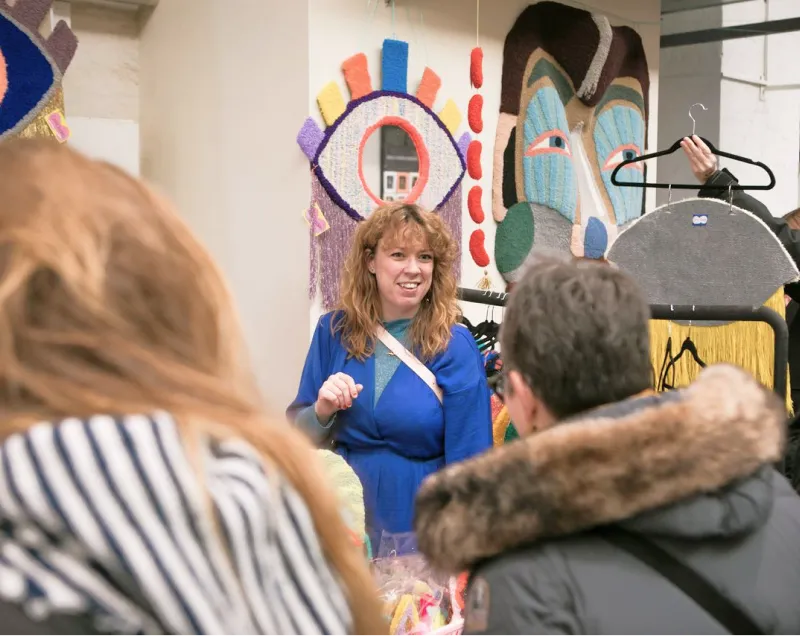
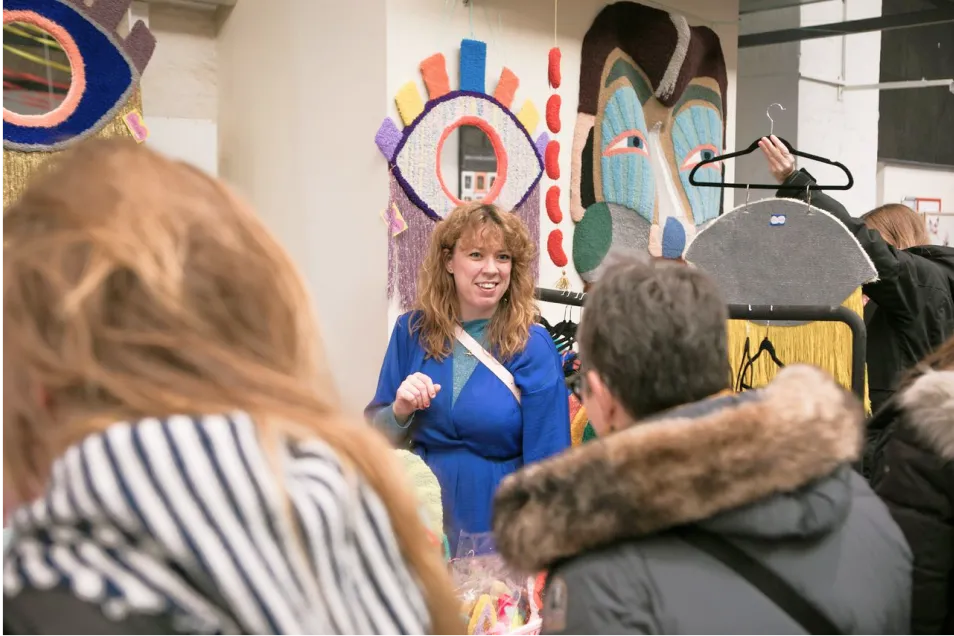
Accordion section on about us done + css for heading margin-buttom added + images for "julemarked2019" changed

diff --git a/src/styles/main.css b/src/styles/main.css
@@ -65,11 +65,13 @@ main {
 /* general font styling for desktop*/
 h1, h2, h3, h4, h5, h6 {
   font-family: "Outfit", sans-serif;
+  margin-bottom: var(--spacing-small);
 }
 
 h1 {
   font-weight: bold;
   font-size: 3rem;
+  margin-bottom: calc(var(--spacing-small) * 2);
 }
 h2 {
   font-size: 2.5rem;

diff --git a/src/styles/pc-style.css b/src/styles/pc-style.css
@@ -19,6 +19,11 @@
     flex-direction: row;
 }
 
+.pc-flex-row-reverse {
+    display: flex;
+    flex-direction: row-reverse;
+}
+
 .pc-flex-center {
     justify-content: center;
     align-items: center;

diff --git a/src/styles/style.css b/src/styles/style.css
@@ -23,6 +23,10 @@
     align-items: center;
 }
 
+.flex1 {
+    flex: 1;
+}
+
 /* Styling for gap and spacing */
 .gap-s {
     gap: var(--spacing-small);
